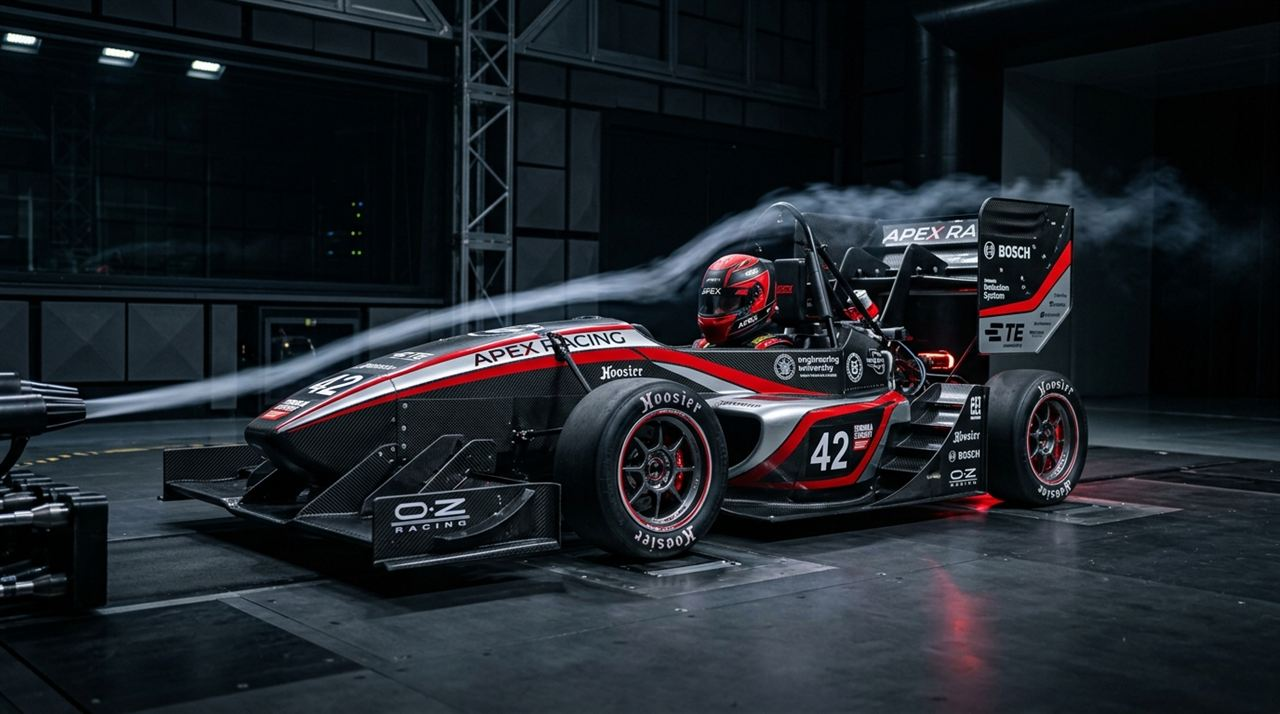
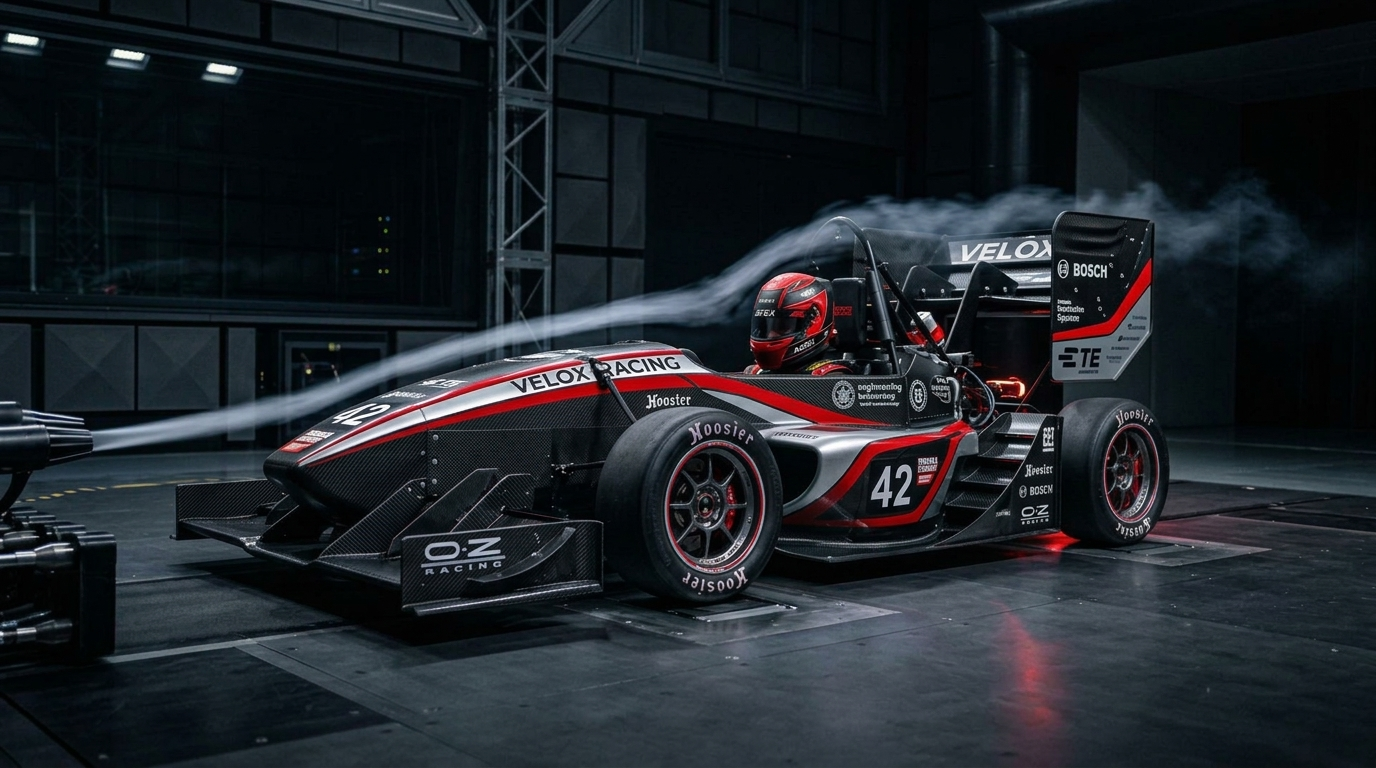
Fix about section car render with Velox Racing livery, add subteam description, and auto-hide selected subteam in join form

diff --git a/join.html b/join.html
@@ -21,9 +21,9 @@
   <link rel="stylesheet" href="https://fonts.googleapis.com/css2?family=Cairo:wght@400;600;700;800;900&family=Inter:wght@400;500;600;700;800&display=swap" />
 
   <!-- Shared Style with Cache Buster -->
-  <link rel="stylesheet" href="style.css?v=3.5" />
+  <link rel="stylesheet" href="style.css?v=3.6" />
   <!-- Localization Engine (Deferred) -->
-  <script src="i18n.js?v=3.5" defer></script>
+  <script src="i18n.js?v=3.6" defer></script>
   <!-- Supabase JS Client (Deferred) -->
   <script src="https://cdn.jsdelivr.net/npm/@supabase/supabase-js@2" defer></script>
 </head>
@@ -138,6 +138,16 @@
             </div>
 
             <!-- 5. Sub-team Choices -->
+            <div class="subteams-desc-box" style="margin-bottom: 12px; background: rgba(255, 255, 255, 0.03); border: 1px solid var(--border); border-radius: var(--radius-sm); padding: 12px 16px;">
+              <div style="font-weight: 700; font-size: 0.92rem; color: #FFF; margin-bottom: 4px; display: flex; align-items: center; gap: 8px;">
+                <span style="color: var(--red);">⚙</span>
+                <span data-i18n="join.subteamsHeader">Subteam Preferences &amp; Evaluation</span>
+              </div>
+              <p style="margin: 0; font-size: 0.82rem; color: var(--text-muted); line-height: 1.5;" data-i18n="join.subteamsDesc">
+                Choose your primary (1st choice) and secondary (2nd choice) subteams. Your application and interview evaluation will focus primarily on your 1st choice; your 2nd choice serves as an alternative technical or operational pathway.
+              </p>
+            </div>
+
             <div class="form-row">
               <div class="form-group">
                 <label for="subteamFirst" data-i18n="join.subteam1">1st Choice Sub-team<span class="req">*</span></label>
@@ -330,8 +340,8 @@
       });
     }
 
-    // Populate Sub-team dropdowns from team.js
-    function initSubteamOptions() {
+    // Populate and synchronize Sub-team dropdowns from team.js
+    function updateSubteamOptions() {
       const select1 = document.getElementById('subteamFirst');
       const select2 = document.getElementById('subteamSecond');
       if (!select1 || !select2 || typeof getSubteamsList !== 'function') return;
@@ -340,20 +350,34 @@
       const placeholder1 = isAr ? 'اختر الرغبة الأولى' : 'Select 1st choice';
       const placeholder2 = isAr ? 'اختر الرغبة الثانية' : 'Select 2nd choice';
 
-      const prev1 = select1.value;
-      const prev2 = select2.value;
+      const val1 = select1.value;
+      let val2 = select2.value;
+
+      // If user selected the same subteam in select1 that was in select2, reset select2
+      if (val1 && val2 && val1 === val2) {
+        val2 = '';
+      }
 
       const subteams = getSubteamsList();
       
-      select1.innerHTML = `<option value="" disabled ${!prev1 ? 'selected' : ''}>${placeholder1}</option>`;
-      select2.innerHTML = `<option value="" disabled ${!prev2 ? 'selected' : ''}>${placeholder2}</option>`;
-
+      // Populate select1 (exclude val2 if selected)
+      let html1 = `<option value="" disabled ${!val1 ? 'selected' : ''}>${placeholder1}</option>`;
       subteams.forEach(name => {
-        // Keep engineering terms clear in English
-        select1.innerHTML += `<option value="${name}" ${prev1 === name ? 'selected' : ''}>${name}</option>`;
-        select2.innerHTML += `<option value="${name}" ${prev2 === name ? 'selected' : ''}>${name}</option>`;
+        if (val2 && name === val2) return; // Hide what is selected in 2nd choice
+        html1 += `<option value="${name}" ${val1 === name ? 'selected' : ''}>${name}</option>`;
       });
+      select1.innerHTML = html1;
+
+      // Populate select2 (exclude val1 if selected)
+      let html2 = `<option value="" disabled ${!val2 ? 'selected' : ''}>${placeholder2}</option>`;
+      subteams.forEach(name => {
+        if (val1 && name === val1) return; // Hide what is selected in 1st choice
+        html2 += `<option value="${name}" ${val2 === name ? 'selected' : ''}>${name}</option>`;
+      });
+      select2.innerHTML = html2;
     }
+
+    const initSubteamOptions = updateSubteamOptions;
 
     // Re-populate subteams & academic year when language changes
     window.addEventListener('veloxLanguageChanged', () => {
@@ -601,6 +625,12 @@
 
     document.addEventListener('DOMContentLoaded', () => {
       initSubteamOptions();
+      const select1 = document.getElementById('subteamFirst');
+      const select2 = document.getElementById('subteamSecond');
+      if (select1 && select2) {
+        select1.addEventListener('change', () => updateSubteamOptions());
+        select2.addEventListener('change', () => updateSubteamOptions());
+      }
       updateAcademicYearOptions();
       checkRecruitmentStatus();
       initThemeAndLang();

diff --git a/index.html b/index.html
@@ -21,11 +21,11 @@
   <link rel="stylesheet" href="https://fonts.googleapis.com/css2?family=Cairo:wght@400;600;700;800;900&family=Inter:wght@400;500;600;700;800&display=swap" />
 
   <!-- Shared Style with Cache Buster -->
-  <link rel="stylesheet" href="style.css?v=3.5" />
+  <link rel="stylesheet" href="style.css?v=3.6" />
 
   <!-- Localization Engine & Team Data (Deferred for non-blocking render) -->
-  <script src="i18n.js?v=3.5" defer></script>
-  <script src="team.js?v=3.5" defer></script>
+  <script src="i18n.js?v=3.6" defer></script>
+  <script src="team.js?v=3.6" defer></script>
 </head>
 <body>
 
@@ -75,7 +75,7 @@
   <main>
     <!-- Full-Screen Hero -->
     <section class="hero" id="home">
-      <video class="hero-video-bg" autoplay muted loop playsinline preload="metadata" poster="velox_car_render.jpg">
+      <video class="hero-video-bg" autoplay muted loop playsinline preload="metadata" poster="velox_car_render.jpg?v=5.0">
         <source src="lff.mp4" type="video/mp4" />
       </video>
       <div class="hero-overlay"></div>
@@ -124,7 +124,7 @@
             </div>
           </div>
           <div class="about-visual">
-            <img src="velox_car_render.jpg" alt="Velox Racing formula student car design" loading="lazy" width="1280" height="719" />
+            <img src="velox_car_render.jpg?v=5.0" alt="Velox Racing formula student car design" loading="lazy" width="1280" height="719" />
           </div>
         </div>
       </div>
@@ -187,7 +187,7 @@
               src="ad.mp4"
               playsinline
               preload="none"
-              poster="velox_car_render.jpg"
+              poster="velox_car_render.jpg?v=5.0"
               loop>
             </video>
 

diff --git a/i18n.js b/i18n.js
@@ -97,6 +97,8 @@ const VELOX_I18N = {
     'join.year3': 'Year 3 (Third Year)',
     'join.year4': 'Year 4 (Fourth Year / Senior)',
     'join.alumni': 'Graduate / Alumni',
+    'join.subteamsHeader': 'Subteam Preferences & Evaluation',
+    'join.subteamsDesc': 'Choose your primary (1st choice) and secondary (2nd choice) subteams. Your application and interview evaluation will focus primarily on your 1st choice; your 2nd choice serves as an alternative technical or operational pathway.',
     'join.subteam1': '1st Choice Sub-team<span class="req">*</span>',
     'join.subteam2': '2nd Choice Sub-team<span class="req">*</span>',
     'join.subteamSelect1': 'Select 1st choice',
@@ -304,6 +306,8 @@ const VELOX_I18N = {
     'join.year3': 'السنة الثالثة (Year 3)',
     'join.year4': 'السنة الرابعة / التخرج (Year 4)',
     'join.alumni': 'خريج / Alumni',
+    'join.subteamsHeader': 'تفضيلات الأقسام وتحديد الرغبات',
+    'join.subteamsDesc': 'اختر رغبتك الأساسية (الرغبة الأولى) والبديلة (الرغبة الثانية). سيتم تقييم طلبك ومقابلتك في المقام الأول بناءً على رغبتك الأولى، وتُعد الرغبة الثانية مساراً بديلاً في حال اكتمال العدد المطلوب في القسم.',
     'join.subteam1': 'الرغبة الأولى للقسم الفرعي<span class="req">*</span>',
     'join.subteam2': 'الرغبة الثانية للقسم الفرعي<span class="req">*</span>',
     'join.subteamSelect1': 'اختر الرغبة الأولى',

diff --git a/style.css b/style.css
@@ -361,6 +361,7 @@ a {
 img, video {
   display: block;
   max-width: 100%;
+  height: auto;
 }
 
 button, input, select, textarea {
@@ -919,10 +920,21 @@ p {
   line-height: 1.7;
 }
 
+.about-visual {
+  position: relative;
+  border-radius: var(--radius-md);
+  overflow: hidden;
+  border: 1px solid var(--border);
+  box-shadow: 0 16px 36px rgba(0, 0, 0, 0.45);
+}
+
 .about-visual img {
   border-radius: var(--radius-md);
-  border: 1px solid var(--border);
   width: 100%;
+  height: auto;
+  aspect-ratio: 16 / 9;
+  object-fit: cover;
+  display: block;
 }
 
 /* ── Sleek Cinema Video Showcase (ad.mp4) ── */
